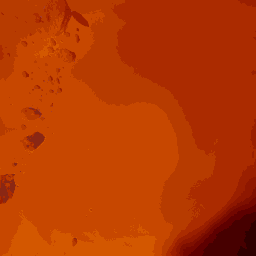
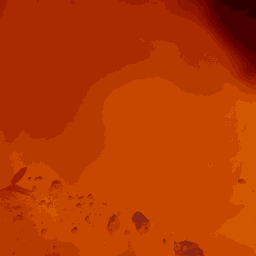
Sky box

diff --git a/src/js/SkyBox.js b/src/js/SkyBox.js
@@ -1,0 +1,82 @@
+Quake2.SkyBox = function (gl, assets, camera) {
+  this._gl = gl;
+  this._camera = camera;
+
+  const vertexShader = gl.createShader(gl.VERTEX_SHADER);
+  gl.shaderSource(vertexShader, document.getElementById('skybox-vertex-shader').text);
+  gl.compileShader(vertexShader);
+  console.log(gl.getShaderInfoLog(vertexShader));
+
+  const fragmentShader = gl.createShader(gl.FRAGMENT_SHADER);
+  gl.shaderSource(fragmentShader, document.getElementById('skybox-fragment-shader').text);
+  gl.compileShader(fragmentShader);
+  console.log(gl.getShaderInfoLog(fragmentShader));
+
+  this._program = gl.createProgram();
+  gl.attachShader(this._program, vertexShader);
+  gl.attachShader(this._program, fragmentShader);
+  gl.bindAttribLocation(this._program, 0, 'in_Vertex');
+  gl.linkProgram(this._program);
+  console.log(gl.getProgramInfoLog(this._program));
+
+  this._locations = {
+    angle: gl.getUniformLocation(this._program, 'Angle'),
+    texture: gl.getUniformLocation(this._program, 'Texture'),
+    screenSize: gl.getUniformLocation(this._program, 'ScreenSize'),
+  };
+
+  gl.useProgram(this._program);
+
+  this._vertexBuffer = gl.createBuffer();
+  gl.bindBuffer(gl.ARRAY_BUFFER, this._vertexBuffer);
+  gl.bufferData(gl.ARRAY_BUFFER, new Float32Array([
+      1, 1, -1, 1, -1, -1, 1, -1, 1, 1, -1, 1, 1, 1, 1, 1, 1, -1,  // right
+      -1, 1, 1, -1, -1, 1, -1, -1, -1, -1, -1, -1, -1, 1, -1, -1, 1, 1,  // left
+      -1, 1, 1, -1, 1, -1, 1, 1, -1, 1, 1, -1, 1, 1, 1, -1, 1, 1,  // up
+      -1, -1, -1, -1, -1, 1, 1, -1, 1, 1, -1, 1, 1, -1, -1, -1, -1, -1,  // down
+      1, 1, 1, 1, -1, 1, -1, -1, 1, -1, -1, 1, -1, 1, 1, 1, 1, 1,  // front
+      -1, 1, -1, -1, -1, -1, 1, -1, -1, 1, -1, -1, 1, 1, -1, -1, 1, -1,  // back
+  ]), gl.STATIC_DRAW);
+
+  gl.activeTexture(gl.TEXTURE3);
+  const texture = gl.createTexture();
+  gl.bindTexture(gl.TEXTURE_CUBE_MAP, texture);
+  gl.texParameteri(gl.TEXTURE_CUBE_MAP, gl.TEXTURE_MIN_FILTER, gl.LINEAR);
+  gl.texParameteri(gl.TEXTURE_CUBE_MAP, gl.TEXTURE_MAG_FILTER, gl.LINEAR);
+  gl.texImage2D(gl.TEXTURE_CUBE_MAP_POSITIVE_X, 0, gl.RGBA, gl.RGBA, gl.UNSIGNED_BYTE, assets.skyBox.right);
+  gl.texImage2D(gl.TEXTURE_CUBE_MAP_NEGATIVE_X, 0, gl.RGBA, gl.RGBA, gl.UNSIGNED_BYTE, assets.skyBox.left);
+  gl.texImage2D(gl.TEXTURE_CUBE_MAP_POSITIVE_Y, 0, gl.RGBA, gl.RGBA, gl.UNSIGNED_BYTE, assets.skyBox.up);
+  gl.texImage2D(gl.TEXTURE_CUBE_MAP_NEGATIVE_Y, 0, gl.RGBA, gl.RGBA, gl.UNSIGNED_BYTE, assets.skyBox.down);
+  gl.texImage2D(gl.TEXTURE_CUBE_MAP_POSITIVE_Z, 0, gl.RGBA, gl.RGBA, gl.UNSIGNED_BYTE, assets.skyBox.back);
+  gl.texImage2D(gl.TEXTURE_CUBE_MAP_NEGATIVE_Z, 0, gl.RGBA, gl.RGBA, gl.UNSIGNED_BYTE, assets.skyBox.front);
+
+  gl.uniform1i(this._locations.texture, 3);
+
+};
+
+
+Quake2.SkyBox.prototype.resizeScreen = function (width, height) {
+  const gl = this._gl;
+  gl.useProgram(this._program);
+  gl.uniform3f(this._locations.screenSize, width, height, Math.max(width, height));
+};
+
+
+Quake2.SkyBox.prototype.render = function () {
+  const gl = this._gl;
+  gl.useProgram(this._program);
+  gl.uniform2f(
+      this._locations.angle,
+      this._camera.angle.x,
+      this._camera.angle.y
+      );
+  gl.bindBuffer(gl.ARRAY_BUFFER, this._vertexBuffer);
+  gl.disableVertexAttribArray(1);
+  gl.disableVertexAttribArray(2);
+  gl.disableVertexAttribArray(3);
+  gl.disableVertexAttribArray(4);
+  gl.disableVertexAttribArray(5);
+  gl.disableVertexAttribArray(6);
+  gl.vertexAttribPointer(0, 3, gl.FLOAT, false, 0, 0);
+  gl.drawArrays(gl.TRIANGLES, 0, 36);
+};

diff --git a/src/js/Game.js b/src/js/Game.js
@@ -7,17 +7,15 @@ Quake2.Game = function (gl, assets) {
   gl.depthFunc(gl.GREATER);
   gl.enable(gl.CULL_FACE);
   gl.frontFace(gl.CW);
+
+  // All programs have at least one attribute array. Other arrays are
+  // selectively enabled or disabled by each program.
   gl.enableVertexAttribArray(0);
-  gl.enableVertexAttribArray(1);
-  gl.enableVertexAttribArray(2);
-  gl.enableVertexAttribArray(3);
-  gl.enableVertexAttribArray(4);
-  gl.enableVertexAttribArray(5);
-  gl.enableVertexAttribArray(6);
 
   this._bsp = new Quake2.BSP(gl, assets.data);
   this.camera = new Quake2.Camera(this._bsp);
 
+  this._skyBox = new Quake2.SkyBox(gl, assets, this.camera);
   this._worldProgram = new Quake2.WorldProgram(gl, assets, this.camera);
   this._modelProgram = new Quake2.ModelProgram(gl, this.camera);
 
@@ -48,6 +46,7 @@ Quake2.Game = function (gl, assets) {
 
 Quake2.Game.prototype.resize = function (width, height) {
   this._gl.viewport(0, 0, width, height);
+  this._skyBox.resizeScreen(width, height);
   this._worldProgram.resizeScreen(width, height);
   this._modelProgram.resizeScreen(width, height);
 };
@@ -61,9 +60,14 @@ Quake2.Game.prototype.tick = function (t0, t1, keys) {
 Quake2.Game.prototype.render = function () {
   const gl = this._gl;
 
-  gl.clear(gl.DEPTH_BUFFER_BIT);
-
   const t = Date.now();
+
+  gl.disable(gl.DEPTH_TEST);
+
+  this._skyBox.render();
+  
+  gl.enable(gl.DEPTH_TEST);
+  gl.clear(gl.DEPTH_BUFFER_BIT);
 
   this._worldProgram.prepare();
   const leaf = this._bsp.locate(this.camera.head);

diff --git a/src/index.html b/src/index.html
@@ -14,6 +14,7 @@
   <script src="js/Loader.js"></script>
   <script src="js/Physics.js"></script>
   <script src="js/entities/Entities.js"></script>
+  <script src="js/SkyBox.js"></script>
   <script src="js/Cluster.js"></script>
   <script src="js/PVS.js"></script>
   <script src="js/BSP.js"></script>
@@ -202,6 +203,49 @@ varying vec2 ex_TextureCoordinates;
 
 void main() {
   gl_FragColor = texture2D(Texture, ex_TextureCoordinates);
+}
+  </script>
+
+
+  <script id="skybox-vertex-shader" type="application/glsl">
+uniform vec2 Angle;
+uniform vec3 ScreenSize;
+
+attribute vec3 in_Vertex;
+
+varying vec3 ex_Vertex;
+
+void main() {
+  ex_Vertex = in_Vertex;
+  gl_Position = mat4(
+    ScreenSize.z / ScreenSize.x, 0, 0, 0,
+    0, ScreenSize.z / ScreenSize.y, 0, 0,
+    0, 0, 0, 1,
+    0, 0, 1, 1
+  ) * mat4(
+    1, 0, 0, 0,
+    0, cos(Angle.x), sin(Angle.x), 0,
+    0, -sin(Angle.x), cos(Angle.x), 0,
+    0, 0, 0, 1
+  ) * mat4(
+    cos(Angle.y), 0, -sin(Angle.y), 0,
+    0, 1, 0, 0,
+    sin(Angle.y), 0, cos(Angle.y), 0,
+    0, 0, 0, 1
+  ) * vec4(in_Vertex, 0);
+}
+  </script>
+
+
+  <script id="skybox-fragment-shader" type="application/glsl">
+precision mediump float;
+
+uniform samplerCube Texture;
+
+varying vec3 ex_Vertex;
+
+void main() {
+  gl_FragColor = textureCube(Texture, ex_Vertex);
 }
   </script>
 

diff --git a/src/js/Cluster.js b/src/js/Cluster.js
@@ -1,3 +1,8 @@
+Quake2.EmptyCluster = function () {};
+
+Quake2.EmptyCluster.prototype.render = function () {};
+
+
 Quake2.Cluster = function (gl, data, faces) {
   this._gl = gl;
 
@@ -96,6 +101,10 @@ Quake2.Cluster = function (gl, data, faces) {
   }
 
   this._size = vertices.length / 3;
+
+  if (!this._size) {
+    return new Quake2.EmptyCluster();
+  }
 
   this._vertexBuffer = gl.createBuffer();
   gl.bindBuffer(gl.ARRAY_BUFFER, this._vertexBuffer);

diff --git a/src/js/ModelProgram.js b/src/js/ModelProgram.js
@@ -62,6 +62,12 @@ Quake2.ModelProgram.prototype.prepareForEntities = function () {
       this._camera.angle.y
       );
   gl.activeTexture(gl.TEXTURE2);
+  gl.enableVertexAttribArray(1);
+  gl.enableVertexAttribArray(2);
+  gl.disableVertexAttribArray(3);
+  gl.disableVertexAttribArray(4);
+  gl.disableVertexAttribArray(5);
+  gl.disableVertexAttribArray(6);
 };
 
 

diff --git a/src/js/WorldProgram.js b/src/js/WorldProgram.js
@@ -93,4 +93,11 @@ Quake2.WorldProgram.prototype.prepare = function () {
       this._camera.angle.y
       );
 
+  gl.enableVertexAttribArray(1);
+  gl.enableVertexAttribArray(2);
+  gl.enableVertexAttribArray(3);
+  gl.enableVertexAttribArray(4);
+  gl.enableVertexAttribArray(5);
+  gl.enableVertexAttribArray(6);
+
 };
